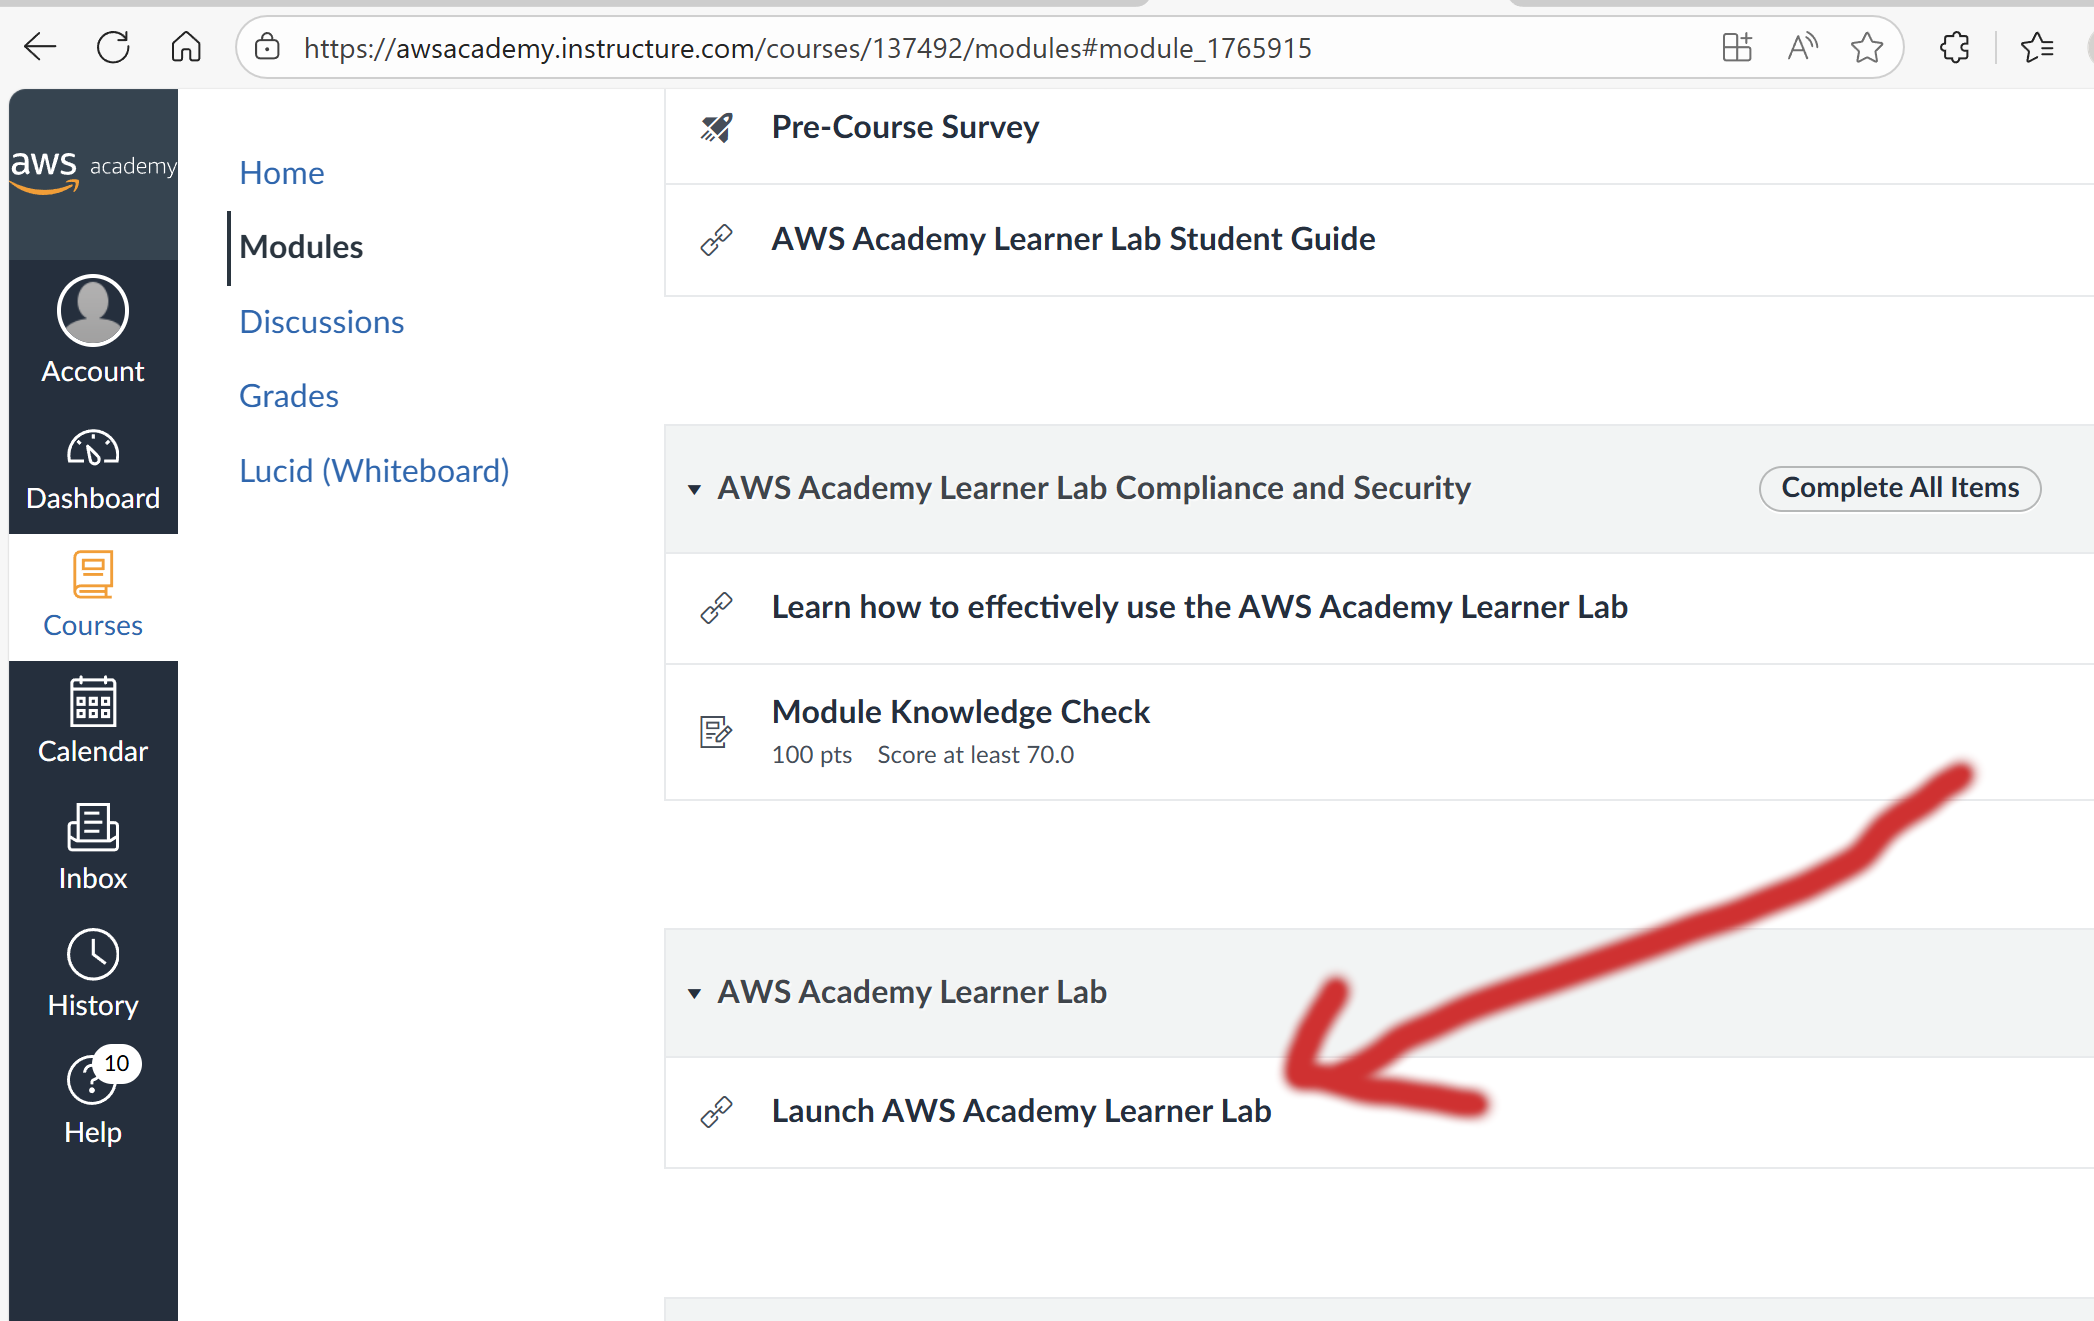
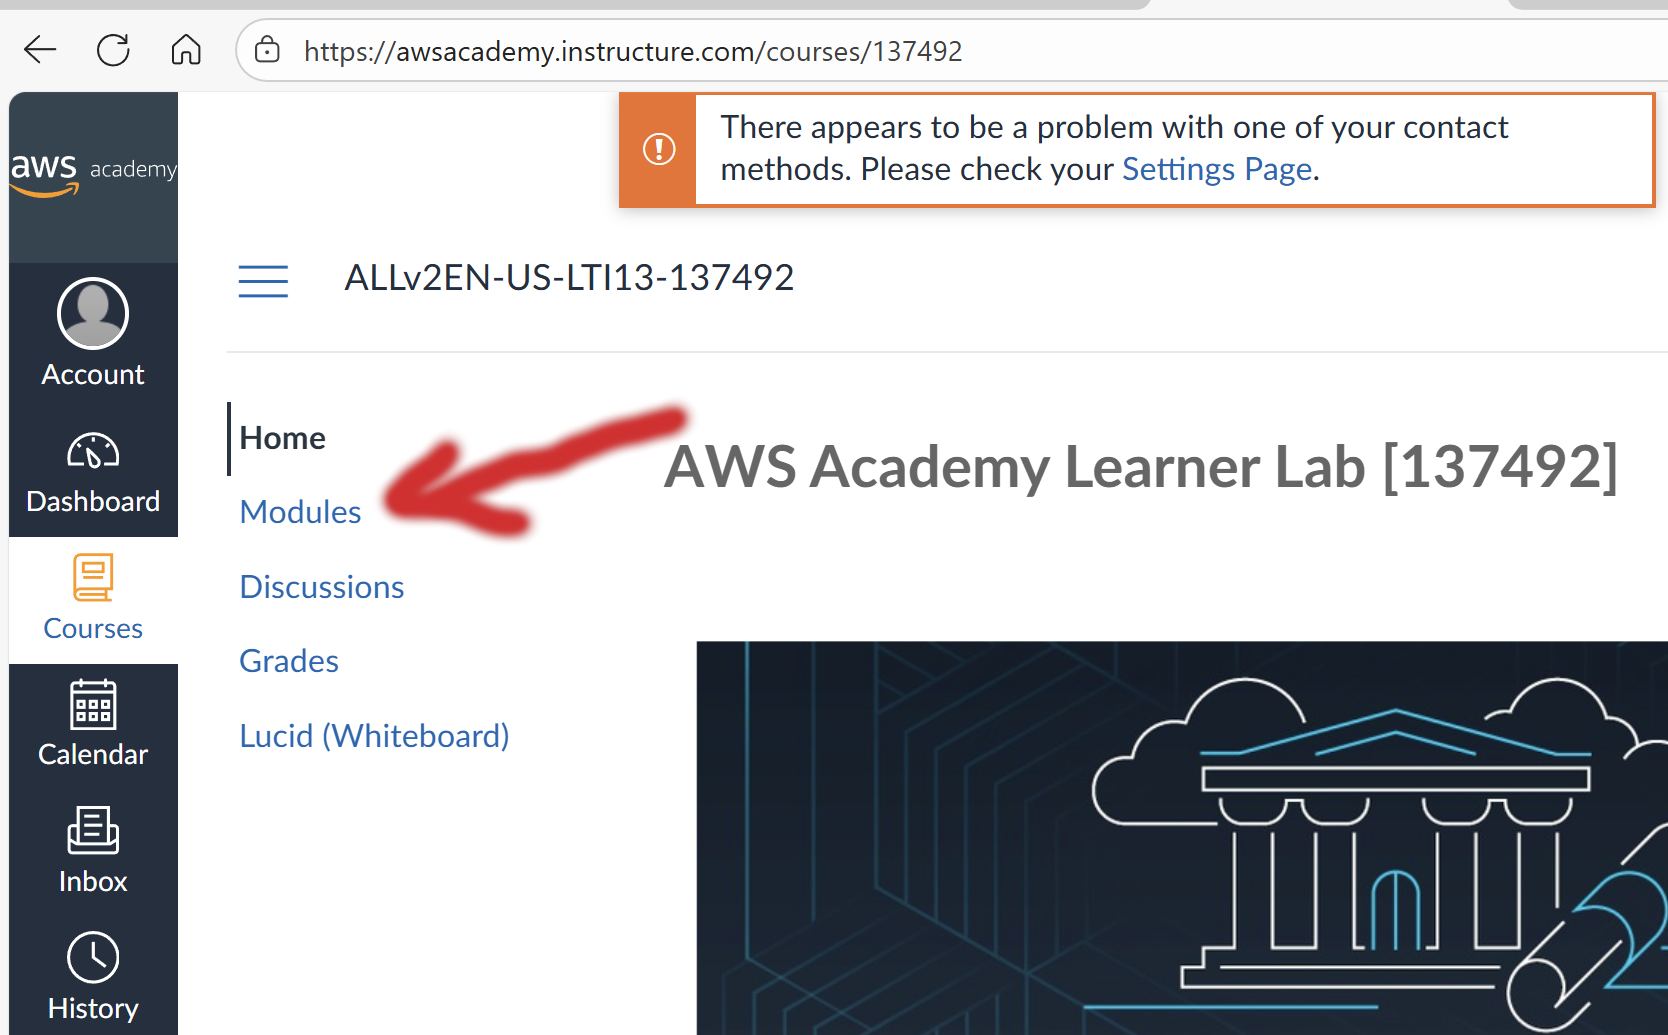
updated create instance

diff --git a/aws/create-instance.md b/aws/create-instance.md
@@ -6,17 +6,17 @@ This will help you setup an instance on AWS (**Just ingore, click OK on pop-ups 
 
 <img src="content/aws1.png" alt="drawing" width="640"/>
 
-* Click "Modules" (drawn around by hand):
+* Click "Modules" (red arrow):
 
-<img src="content/aws2.png" alt="drawing" width="640"/>
+<img src="content/2.png" alt="drawing" width="640"/>
 
-* Click "Learner Lab"
+* Click "Learner Lab" (red arrow):
 
-<img src="content/aws3.png" alt="drawing" width="640"/>
+<img src="content/3.png" alt="drawing" width="640"/>
 
 * Click "Start Lab"
 
-<img src="content/aws4.png" alt="drawing" width="640"/>
+<img src="content/4.png" alt="drawing" width="640"/>
 
 * Click the (now green not red) AWS link (drawn around by hand):
 
